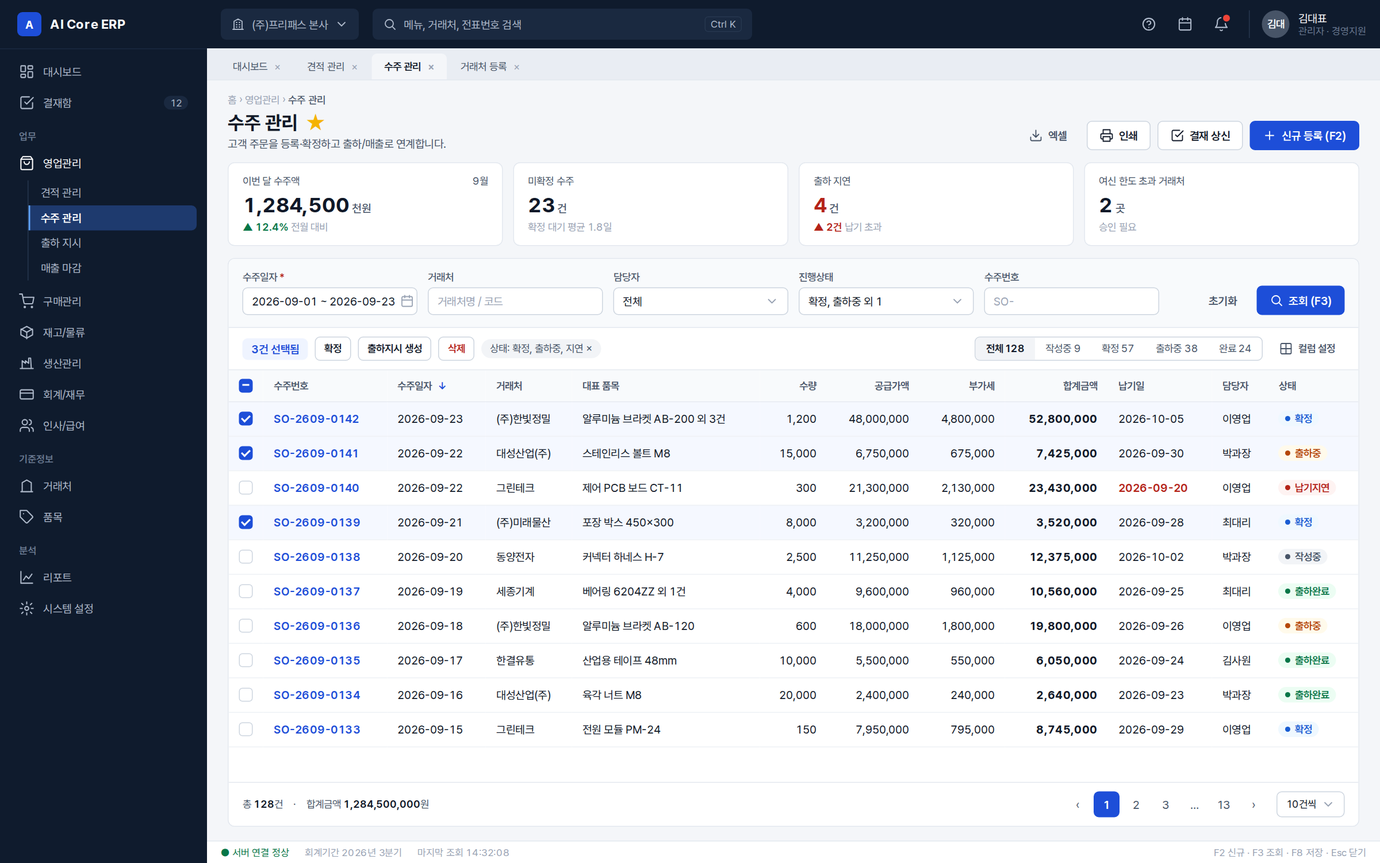
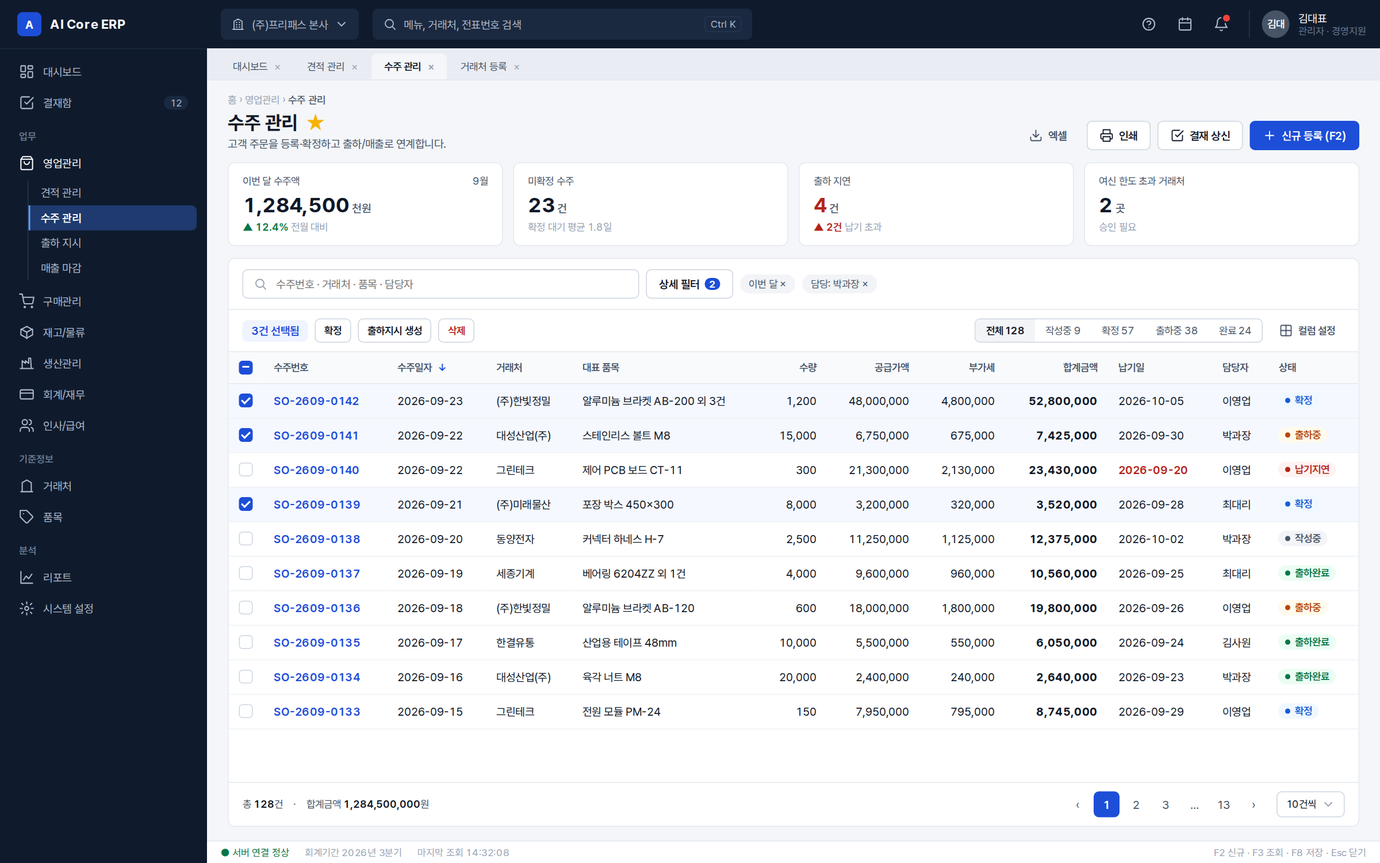
[Claude] ERP 표준 — 조회 규칙 미니멀화: 검색창 + 상세 필터, 드롭다운 최소화
대표 2026-09-23 「검색창이랑 상세 필터를 최대한 쓰려고 하잖아. 드랍다운은
계약·정산·실적 같은 데서만 … 더 미니멀하고 심플하게」

- erp.css/retro.css: erp-searchbar · erp-search · erp-filter-more(details) ·
  erp-filter-panel · erp-facet(-opt, 건수 칩) · erp-dd(분류 드롭다운)
- README §5-1 조회 규칙, §1 ⑥ 갱신
- main.html · platform 목록 시안: 라벨 드롭다운 바 → 검색창 + 상세 필터,
  컬럼 설정 · 장식 칩 제거, 이미지 재생성

Claude-Session: https://claude.ai/code/session_01VHqvSXhUy82o1cFFrYMP3F

diff --git a/design/erp-standard/platform/inventory.html b/design/erp-standard/platform/inventory.html
@@ -71,19 +71,10 @@
       <div class="erp-kpi"><div class="erp-kpi-label">출고불가 · 시트 불일치 <span>확인 필요</span></div><div class="erp-kpi-value erp-kpi-value--alert">43<small>대</small></div><div class="erp-kpi-delta"><span class="erp-down">시트 불일치 6대</span></div></div>
     </section>
     <section class="erp-card erp-card--fill">
-      <form class="erp-filter" data-region="filter" role="search">
-        <label class="erp-field"><span class="erp-label">제조사 / 모델</span><span class="erp-input">기아, 현대 외 2<svg viewBox="0 0 24 24"><path d="m6 9 6 6 6-6"/></svg></span></label>
-        <label class="erp-field"><span class="erp-label">상품구분</span><span class="erp-input">전체<svg viewBox="0 0 24 24"><path d="m6 9 6 6 6-6"/></svg></span></label>
-        <label class="erp-field"><span class="erp-label">계약기간 기준</span><span class="erp-input">36개월<svg viewBox="0 0 24 24"><path d="m6 9 6 6 6-6"/></svg></span></label>
-        <label class="erp-field"><span class="erp-label">월 대여료</span><span class="erp-input">150만원 이하<svg viewBox="0 0 24 24"><path d="m6 9 6 6 6-6"/></svg></span></label>
-        <label class="erp-field"><span class="erp-label">차량번호 / 차명</span><input class="erp-input" placeholder="차량번호, 차명, 옵션"></label>
-        <div class="erp-filter-actions"><button class="erp-btn erp-btn--ghost" type="button">초기화</button><button class="erp-btn erp-btn--primary" type="submit"><svg viewBox="0 0 24 24"><circle cx="11" cy="11" r="7"/><path d="m21 21-4.3-4.3"/></svg>조회 (F3)</button></div>
-      </form>
+      <form class="erp-searchbar" data-region="filter" role="search"><label class="erp-search"><svg viewBox="0 0 24 24"><circle cx="11" cy="11" r="7"/><path d="m21 21-4.3-4.3"/></svg><input name="q" placeholder="차량번호 · 차명 · 옵션 · 공급사"></label><details class="erp-filter-more"><summary class="erp-btn">상세 필터 <b>2</b></summary><div class="erp-filter-panel"><div class="erp-facet"><p class="erp-facet-title">출고상태</p><div class="erp-facet-opts"><a class="erp-facet-opt" href="#">즉시출고 <small>86</small></a><a class="erp-facet-opt" href="#">출고가능 <small>142</small></a><a class="erp-facet-opt" href="#">출고협의 <small>41</small></a></div></div><div class="erp-facet"><p class="erp-facet-title">상품구분</p><div class="erp-facet-opts"><a class="erp-facet-opt" href="#">장기렌트 <small>214</small></a><a class="erp-facet-opt" href="#">구독 <small>98</small></a></div></div><div class="erp-facet"><p class="erp-facet-title">제조사</p><div class="erp-facet-opts"><a class="erp-facet-opt" href="#">기아 <small>131</small></a><a class="erp-facet-opt" href="#">현대 <small>122</small></a><a class="erp-facet-opt" href="#">제네시스 <small>34</small></a></div></div><div class="erp-facet"><p class="erp-facet-title">월 대여료 (36개월)</p><div class="erp-facet-opts"><a class="erp-facet-opt" href="#">50만원 이하 <small>61</small></a><a class="erp-facet-opt" href="#">100만원 이하 <small>187</small></a><a class="erp-facet-opt" href="#" aria-pressed="true">150만원 이하 <small>288</small></a></div></div><div class="erp-facet"><p class="erp-facet-title">우대조건</p><div class="erp-facet-opts"><a class="erp-facet-opt" href="#" aria-pressed="true">무보증 <small>176</small></a><a class="erp-facet-opt" href="#">만21세 <small>92</small></a><a class="erp-facet-opt" href="#">보증금 분납 <small>48</small></a></div></div><div class="erp-filter-panel-foot"><a class="erp-btn erp-btn--ghost" href="#">초기화</a><button class="erp-btn erp-btn--primary" type="submit">적용</button></div></div></details><span class="erp-chip">150만원 이하 ×</span><span class="erp-chip">무보증 ×</span></form>
       <div class="erp-toolbar" data-region="grid-toolbar">
-        <span class="erp-chip">우대조건: 무보증 ×</span><span class="erp-chip">공급사: 전체</span>
         <span class="erp-toolbar-spacer"></span>
         <div class="erp-seg" role="group" aria-label="출고상태"><button type="button" aria-pressed="true">전체 312</button><button type="button" aria-pressed="false">즉시출고 86</button><button type="button" aria-pressed="false">출고가능 142</button><button type="button" aria-pressed="false">출고협의 41</button><button type="button" aria-pressed="false">출고불가 43</button></div>
-        <button class="erp-btn erp-btn--sm erp-btn--ghost" type="button"><svg viewBox="0 0 24 24"><rect x="3" y="3" width="18" height="18" rx="2"/><path d="M12 3v18M3 12h18"/></svg>컬럼 설정</button>
       </div>
       <div class="erp-grid-scroll" data-region="grid">
         <table class="erp-grid">

diff --git a/design/erp-standard/platform/retro/inventory.html b/design/erp-standard/platform/retro/inventory.html
@@ -75,19 +75,10 @@
       <div class="erp-kpi"><div class="erp-kpi-label">출고불가 · 시트 불일치 <span>확인 필요</span></div><div class="erp-kpi-value erp-kpi-value--alert">43<small>대</small></div><div class="erp-kpi-delta"><span class="erp-down">시트 불일치 6대</span></div></div>
     </section>
     <section class="erp-card erp-card--fill">
-      <form class="erp-filter" data-region="filter" role="search">
-        <label class="erp-field"><span class="erp-label">제조사 / 모델</span><span class="erp-input">기아, 현대 외 2<svg viewBox="0 0 24 24"><path d="m6 9 6 6 6-6"/></svg></span></label>
-        <label class="erp-field"><span class="erp-label">상품구분</span><span class="erp-input">전체<svg viewBox="0 0 24 24"><path d="m6 9 6 6 6-6"/></svg></span></label>
-        <label class="erp-field"><span class="erp-label">계약기간 기준</span><span class="erp-input">36개월<svg viewBox="0 0 24 24"><path d="m6 9 6 6 6-6"/></svg></span></label>
-        <label class="erp-field"><span class="erp-label">월 대여료</span><span class="erp-input">150만원 이하<svg viewBox="0 0 24 24"><path d="m6 9 6 6 6-6"/></svg></span></label>
-        <label class="erp-field"><span class="erp-label">차량번호 / 차명</span><input class="erp-input" placeholder="차량번호, 차명, 옵션"></label>
-        <div class="erp-filter-actions"><button class="erp-btn erp-btn--ghost" type="button">초기화</button><button class="erp-btn erp-btn--primary" type="submit"><svg viewBox="0 0 24 24"><circle cx="11" cy="11" r="7"/><path d="m21 21-4.3-4.3"/></svg>조회 (F3)</button></div>
-      </form>
+      <form class="erp-searchbar" data-region="filter" role="search"><label class="erp-search"><svg viewBox="0 0 24 24"><circle cx="11" cy="11" r="7"/><path d="m21 21-4.3-4.3"/></svg><input name="q" placeholder="차량번호 · 차명 · 옵션 · 공급사"></label><details class="erp-filter-more"><summary class="erp-btn">상세 필터 <b>2</b></summary><div class="erp-filter-panel"><div class="erp-facet"><p class="erp-facet-title">출고상태</p><div class="erp-facet-opts"><a class="erp-facet-opt" href="#">즉시출고 <small>86</small></a><a class="erp-facet-opt" href="#">출고가능 <small>142</small></a><a class="erp-facet-opt" href="#">출고협의 <small>41</small></a></div></div><div class="erp-facet"><p class="erp-facet-title">상품구분</p><div class="erp-facet-opts"><a class="erp-facet-opt" href="#">장기렌트 <small>214</small></a><a class="erp-facet-opt" href="#">구독 <small>98</small></a></div></div><div class="erp-facet"><p class="erp-facet-title">제조사</p><div class="erp-facet-opts"><a class="erp-facet-opt" href="#">기아 <small>131</small></a><a class="erp-facet-opt" href="#">현대 <small>122</small></a><a class="erp-facet-opt" href="#">제네시스 <small>34</small></a></div></div><div class="erp-facet"><p class="erp-facet-title">월 대여료 (36개월)</p><div class="erp-facet-opts"><a class="erp-facet-opt" href="#">50만원 이하 <small>61</small></a><a class="erp-facet-opt" href="#">100만원 이하 <small>187</small></a><a class="erp-facet-opt" href="#" aria-pressed="true">150만원 이하 <small>288</small></a></div></div><div class="erp-facet"><p class="erp-facet-title">우대조건</p><div class="erp-facet-opts"><a class="erp-facet-opt" href="#" aria-pressed="true">무보증 <small>176</small></a><a class="erp-facet-opt" href="#">만21세 <small>92</small></a><a class="erp-facet-opt" href="#">보증금 분납 <small>48</small></a></div></div><div class="erp-filter-panel-foot"><a class="erp-btn erp-btn--ghost" href="#">초기화</a><button class="erp-btn erp-btn--primary" type="submit">적용</button></div></div></details><span class="erp-chip">150만원 이하 ×</span><span class="erp-chip">무보증 ×</span></form>
       <div class="erp-toolbar" data-region="grid-toolbar">
-        <span class="erp-chip">우대조건: 무보증 ×</span><span class="erp-chip">공급사: 전체</span>
         <span class="erp-toolbar-spacer"></span>
         <div class="erp-seg" role="group" aria-label="출고상태"><button type="button" aria-pressed="true">전체 312</button><button type="button" aria-pressed="false">즉시출고 86</button><button type="button" aria-pressed="false">출고가능 142</button><button type="button" aria-pressed="false">출고협의 41</button><button type="button" aria-pressed="false">출고불가 43</button></div>
-        <button class="erp-btn erp-btn--sm erp-btn--ghost" type="button"><svg viewBox="0 0 24 24"><rect x="3" y="3" width="18" height="18" rx="2"/><path d="M12 3v18M3 12h18"/></svg>컬럼 설정</button>
       </div>
       <div class="erp-grid-scroll" data-region="grid">
         <table class="erp-grid">

diff --git a/design/erp-standard/platform/contracts.html b/design/erp-standard/platform/contracts.html
@@ -65,20 +65,12 @@
       </div>
     </section>
     <section class="erp-card erp-card--fill">
-      <form class="erp-filter" data-region="filter" role="search">
-        <label class="erp-field"><span class="erp-label">계약일 <em class="erp-req">*</em></span><span class="erp-input">2026-09-01 ~ 2026-09-23<svg viewBox="0 0 24 24"><rect x="3" y="4" width="18" height="17" rx="2"/><path d="M16 2v4M8 2v4M3 10h18"/></svg></span></label>
-        <label class="erp-field"><span class="erp-label">고객 / 차량번호</span><input class="erp-input" placeholder="고객명, 차량번호"></label>
-        <label class="erp-field"><span class="erp-label">공급사</span><span class="erp-input">전체<svg viewBox="0 0 24 24"><path d="m6 9 6 6 6-6"/></svg></span></label>
-        <label class="erp-field"><span class="erp-label">영업자</span><span class="erp-input">전체<svg viewBox="0 0 24 24"><path d="m6 9 6 6 6-6"/></svg></span></label>
-        <label class="erp-field"><span class="erp-label">상품구분</span><span class="erp-input">장기렌트, 구독<svg viewBox="0 0 24 24"><path d="m6 9 6 6 6-6"/></svg></span></label>
-        <div class="erp-filter-actions"><button class="erp-btn erp-btn--ghost" type="button">초기화</button><button class="erp-btn erp-btn--primary" type="submit"><svg viewBox="0 0 24 24"><circle cx="11" cy="11" r="7"/><path d="m21 21-4.3-4.3"/></svg>조회 (F3)</button></div>
-      </form>
+      <form class="erp-searchbar" data-region="filter" role="search"><label class="erp-search"><svg viewBox="0 0 24 24"><circle cx="11" cy="11" r="7"/><path d="m21 21-4.3-4.3"/></svg><input name="q" placeholder="계약번호 · 고객 · 차량번호 · 영업자"></label><details class="erp-filter-more"><summary class="erp-btn">상세 필터 <b>1</b></summary><div class="erp-filter-panel"><div class="erp-facet"><p class="erp-facet-title">계약일</p><div class="erp-facet-opts"><a class="erp-facet-opt" href="#" aria-pressed="true">이번 달 <small>142</small></a><a class="erp-facet-opt" href="#">지난 달 <small>131</small></a><a class="erp-facet-opt" href="#">최근 3개월 <small>402</small></a></div></div><div class="erp-facet"><p class="erp-facet-title">상품구분</p><div class="erp-facet-opts"><a class="erp-facet-opt" href="#">장기렌트 <small>98</small></a><a class="erp-facet-opt" href="#">구독 <small>44</small></a></div></div><div class="erp-facet"><p class="erp-facet-title">공급사</p><div class="erp-facet-opts"><a class="erp-facet-opt" href="#">한빛렌터카 <small>51</small></a><a class="erp-facet-opt" href="#">대성모빌리티 <small>38</small></a><a class="erp-facet-opt" href="#">그린카렌탈 <small>30</small></a><a class="erp-facet-opt" href="#">동해오토리스 <small>23</small></a></div></div><div class="erp-facet"><p class="erp-facet-title">영업자</p><div class="erp-facet-opts"><a class="erp-facet-opt" href="#">이영업 <small>44</small></a><a class="erp-facet-opt" href="#">박과장 <small>39</small></a><a class="erp-facet-opt" href="#">최대리 <small>33</small></a><a class="erp-facet-opt" href="#">김팀장 <small>26</small></a></div></div><div class="erp-filter-panel-foot"><a class="erp-btn erp-btn--ghost" href="#">초기화</a><button class="erp-btn erp-btn--primary" type="submit">적용</button></div></div></details><span class="erp-chip">이번 달 ×</span></form>
       <div class="erp-toolbar" data-region="grid-toolbar">
         <span class="erp-selection">2건 선택됨</span>
         <button class="erp-btn erp-btn--sm" type="button">계약서 발송</button><button class="erp-btn erp-btn--sm" type="button">담당 영업자 변경</button><button class="erp-btn erp-btn--sm erp-btn--danger-text" type="button">계약취소</button>
         <span class="erp-toolbar-spacer"></span>
         <div class="erp-seg" role="group" aria-label="계약 상태"><button type="button" aria-pressed="true">전체 142</button><button type="button" aria-pressed="false">계약요청 12</button><button type="button" aria-pressed="false">계약대기 9</button><button type="button" aria-pressed="false">계약발송 14</button><button type="button" aria-pressed="false">계약완료 98</button><button type="button" aria-pressed="false">계약취소 9</button></div>
-        <button class="erp-btn erp-btn--sm erp-btn--ghost" type="button"><svg viewBox="0 0 24 24"><rect x="3" y="3" width="18" height="18" rx="2"/><path d="M12 3v18M3 12h18"/></svg>컬럼 설정</button>
       </div>
       <div class="erp-grid-scroll" data-region="grid">
         <table class="erp-grid">

diff --git a/design/erp-standard/platform/retro/contracts.html b/design/erp-standard/platform/retro/contracts.html
@@ -69,20 +69,12 @@
       </div>
     </section>
     <section class="erp-card erp-card--fill">
-      <form class="erp-filter" data-region="filter" role="search">
-        <label class="erp-field"><span class="erp-label">계약일 <em class="erp-req">*</em></span><span class="erp-input">2026-09-01 ~ 2026-09-23<svg viewBox="0 0 24 24"><rect x="3" y="4" width="18" height="17" rx="2"/><path d="M16 2v4M8 2v4M3 10h18"/></svg></span></label>
-        <label class="erp-field"><span class="erp-label">고객 / 차량번호</span><input class="erp-input" placeholder="고객명, 차량번호"></label>
-        <label class="erp-field"><span class="erp-label">공급사</span><span class="erp-input">전체<svg viewBox="0 0 24 24"><path d="m6 9 6 6 6-6"/></svg></span></label>
-        <label class="erp-field"><span class="erp-label">영업자</span><span class="erp-input">전체<svg viewBox="0 0 24 24"><path d="m6 9 6 6 6-6"/></svg></span></label>
-        <label class="erp-field"><span class="erp-label">상품구분</span><span class="erp-input">장기렌트, 구독<svg viewBox="0 0 24 24"><path d="m6 9 6 6 6-6"/></svg></span></label>
-        <div class="erp-filter-actions"><button class="erp-btn erp-btn--ghost" type="button">초기화</button><button class="erp-btn erp-btn--primary" type="submit"><svg viewBox="0 0 24 24"><circle cx="11" cy="11" r="7"/><path d="m21 21-4.3-4.3"/></svg>조회 (F3)</button></div>
-      </form>
+      <form class="erp-searchbar" data-region="filter" role="search"><label class="erp-search"><svg viewBox="0 0 24 24"><circle cx="11" cy="11" r="7"/><path d="m21 21-4.3-4.3"/></svg><input name="q" placeholder="계약번호 · 고객 · 차량번호 · 영업자"></label><details class="erp-filter-more"><summary class="erp-btn">상세 필터 <b>1</b></summary><div class="erp-filter-panel"><div class="erp-facet"><p class="erp-facet-title">계약일</p><div class="erp-facet-opts"><a class="erp-facet-opt" href="#" aria-pressed="true">이번 달 <small>142</small></a><a class="erp-facet-opt" href="#">지난 달 <small>131</small></a><a class="erp-facet-opt" href="#">최근 3개월 <small>402</small></a></div></div><div class="erp-facet"><p class="erp-facet-title">상품구분</p><div class="erp-facet-opts"><a class="erp-facet-opt" href="#">장기렌트 <small>98</small></a><a class="erp-facet-opt" href="#">구독 <small>44</small></a></div></div><div class="erp-facet"><p class="erp-facet-title">공급사</p><div class="erp-facet-opts"><a class="erp-facet-opt" href="#">한빛렌터카 <small>51</small></a><a class="erp-facet-opt" href="#">대성모빌리티 <small>38</small></a><a class="erp-facet-opt" href="#">그린카렌탈 <small>30</small></a><a class="erp-facet-opt" href="#">동해오토리스 <small>23</small></a></div></div><div class="erp-facet"><p class="erp-facet-title">영업자</p><div class="erp-facet-opts"><a class="erp-facet-opt" href="#">이영업 <small>44</small></a><a class="erp-facet-opt" href="#">박과장 <small>39</small></a><a class="erp-facet-opt" href="#">최대리 <small>33</small></a><a class="erp-facet-opt" href="#">김팀장 <small>26</small></a></div></div><div class="erp-filter-panel-foot"><a class="erp-btn erp-btn--ghost" href="#">초기화</a><button class="erp-btn erp-btn--primary" type="submit">적용</button></div></div></details><span class="erp-chip">이번 달 ×</span></form>
       <div class="erp-toolbar" data-region="grid-toolbar">
         <span class="erp-selection">2건 선택됨</span>
         <button class="erp-btn erp-btn--sm" type="button">계약서 발송</button><button class="erp-btn erp-btn--sm" type="button">담당 영업자 변경</button><button class="erp-btn erp-btn--sm erp-btn--danger-text" type="button">계약취소</button>
         <span class="erp-toolbar-spacer"></span>
         <div class="erp-seg" role="group" aria-label="계약 상태"><button type="button" aria-pressed="true">전체 142</button><button type="button" aria-pressed="false">계약요청 12</button><button type="button" aria-pressed="false">계약대기 9</button><button type="button" aria-pressed="false">계약발송 14</button><button type="button" aria-pressed="false">계약완료 98</button><button type="button" aria-pressed="false">계약취소 9</button></div>
-        <button class="erp-btn erp-btn--sm erp-btn--ghost" type="button"><svg viewBox="0 0 24 24"><rect x="3" y="3" width="18" height="18" rx="2"/><path d="M12 3v18M3 12h18"/></svg>컬럼 설정</button>
       </div>
       <div class="erp-grid-scroll" data-region="grid">
         <table class="erp-grid">

diff --git a/design/erp-standard/platform/retro/settlements.html b/design/erp-standard/platform/retro/settlements.html
@@ -79,19 +79,11 @@
       <section class="erp-card"><div class="erp-card-head"><h2 class="erp-card-title">지급 흐름 <small>프리패스 → 영업자</small></h2></div><div class="erp-card-body"><ol class="erp-steps"><li><span class="erp-step-dot">1</span>접수<span class="erp-step-count">8</span></li><li><span class="erp-step-dot">2</span>통보<span class="erp-step-count">13</span></li><li><span class="erp-step-dot">3</span>정정<span class="erp-step-count">1</span></li><li><span class="erp-step-dot">4</span>확인<span class="erp-step-count">14</span></li><li><span class="erp-step-dot">5</span>지급<span class="erp-step-count">19</span></li></ol></div></section>
     </div>
     <section class="erp-card erp-card--fill">
-      <form class="erp-filter" data-region="filter" role="search">
-        <label class="erp-field"><span class="erp-label">정산월 <em class="erp-req">*</em></span><span class="erp-input">2026-09<svg viewBox="0 0 24 24"><rect x="3" y="4" width="18" height="17" rx="2"/><path d="M16 2v4M8 2v4M3 10h18"/></svg></span></label>
-        <label class="erp-field"><span class="erp-label">공급사</span><span class="erp-input">전체<svg viewBox="0 0 24 24"><path d="m6 9 6 6 6-6"/></svg></span></label>
-        <label class="erp-field"><span class="erp-label">영업자 / 에이전시</span><span class="erp-input">전체<svg viewBox="0 0 24 24"><path d="m6 9 6 6 6-6"/></svg></span></label>
-        <label class="erp-field"><span class="erp-label">단계</span><span class="erp-input">전체<svg viewBox="0 0 24 24"><path d="m6 9 6 6 6-6"/></svg></span></label>
-        <label class="erp-field"><span class="erp-label">계약번호 / 고객</span><input class="erp-input" placeholder="FP-"></label>
-        <div class="erp-filter-actions"><button class="erp-btn erp-btn--ghost" type="button">초기화</button><button class="erp-btn erp-btn--primary" type="submit"><svg viewBox="0 0 24 24"><circle cx="11" cy="11" r="7"/><path d="m21 21-4.3-4.3"/></svg>조회 (F3)</button></div>
-      </form>
+      <form class="erp-searchbar" data-region="filter" role="search"><select class="erp-input erp-dd" aria-label="정산월"><option>2026-09</option><option>2026-08</option><option>2026-07</option></select><label class="erp-search"><svg viewBox="0 0 24 24"><circle cx="11" cy="11" r="7"/><path d="m21 21-4.3-4.3"/></svg><input name="q" placeholder="계약번호 · 공급사 · 영업자 · 고객"></label><details class="erp-filter-more"><summary class="erp-btn">상세 필터</summary><div class="erp-filter-panel"><div class="erp-facet"><p class="erp-facet-title">단계</p><div class="erp-facet-opts"><a class="erp-facet-opt" href="#">접수 <small>8</small></a><a class="erp-facet-opt" href="#">청구 <small>15</small></a><a class="erp-facet-opt" href="#">정정 <small>2</small></a><a class="erp-facet-opt" href="#">확인 <small>11</small></a><a class="erp-facet-opt" href="#">수금 <small>24</small></a></div></div><div class="erp-facet"><p class="erp-facet-title">공급사</p><div class="erp-facet-opts"><a class="erp-facet-opt" href="#">한빛렌터카 <small>14</small></a><a class="erp-facet-opt" href="#">대성모빌리티 <small>11</small></a><a class="erp-facet-opt" href="#">그린카렌탈 <small>9</small></a><a class="erp-facet-opt" href="#">동해오토리스 <small>8</small></a></div></div><div class="erp-filter-panel-foot"><a class="erp-btn erp-btn--ghost" href="#">초기화</a><button class="erp-btn erp-btn--primary" type="submit">적용</button></div></div></details></form>
       <div class="erp-toolbar" data-region="grid-toolbar">
         <div class="erp-seg" role="group" aria-label="정산 구분"><button type="button" aria-pressed="true">건별 정산 42</button><button type="button" aria-pressed="false">정정 필요 3</button><button type="button" aria-pressed="false">환수 3</button><button type="button" aria-pressed="false">보류 · 취소 2</button></div>
         <span class="erp-toolbar-spacer"></span>
         <button class="erp-btn erp-btn--sm" type="button">청구서 생성</button><button class="erp-btn erp-btn--sm" type="button">지급 통보</button>
-        <button class="erp-btn erp-btn--sm erp-btn--ghost" type="button"><svg viewBox="0 0 24 24"><rect x="3" y="3" width="18" height="18" rx="2"/><path d="M12 3v18M3 12h18"/></svg>컬럼 설정</button>
       </div>
       <div class="erp-grid-scroll" data-region="grid">
         <table class="erp-grid">

diff --git a/design/erp-standard/platform/settlements.html b/design/erp-standard/platform/settlements.html
@@ -75,19 +75,11 @@
       <section class="erp-card"><div class="erp-card-head"><h2 class="erp-card-title">지급 흐름 <small>프리패스 → 영업자</small></h2></div><div class="erp-card-body"><ol class="erp-steps"><li><span class="erp-step-dot">1</span>접수<span class="erp-step-count">8</span></li><li><span class="erp-step-dot">2</span>통보<span class="erp-step-count">13</span></li><li><span class="erp-step-dot">3</span>정정<span class="erp-step-count">1</span></li><li><span class="erp-step-dot">4</span>확인<span class="erp-step-count">14</span></li><li><span class="erp-step-dot">5</span>지급<span class="erp-step-count">19</span></li></ol></div></section>
     </div>
     <section class="erp-card erp-card--fill">
-      <form class="erp-filter" data-region="filter" role="search">
-        <label class="erp-field"><span class="erp-label">정산월 <em class="erp-req">*</em></span><span class="erp-input">2026-09<svg viewBox="0 0 24 24"><rect x="3" y="4" width="18" height="17" rx="2"/><path d="M16 2v4M8 2v4M3 10h18"/></svg></span></label>
-        <label class="erp-field"><span class="erp-label">공급사</span><span class="erp-input">전체<svg viewBox="0 0 24 24"><path d="m6 9 6 6 6-6"/></svg></span></label>
-        <label class="erp-field"><span class="erp-label">영업자 / 에이전시</span><span class="erp-input">전체<svg viewBox="0 0 24 24"><path d="m6 9 6 6 6-6"/></svg></span></label>
-        <label class="erp-field"><span class="erp-label">단계</span><span class="erp-input">전체<svg viewBox="0 0 24 24"><path d="m6 9 6 6 6-6"/></svg></span></label>
-        <label class="erp-field"><span class="erp-label">계약번호 / 고객</span><input class="erp-input" placeholder="FP-"></label>
-        <div class="erp-filter-actions"><button class="erp-btn erp-btn--ghost" type="button">초기화</button><button class="erp-btn erp-btn--primary" type="submit"><svg viewBox="0 0 24 24"><circle cx="11" cy="11" r="7"/><path d="m21 21-4.3-4.3"/></svg>조회 (F3)</button></div>
-      </form>
+      <form class="erp-searchbar" data-region="filter" role="search"><select class="erp-input erp-dd" aria-label="정산월"><option>2026-09</option><option>2026-08</option><option>2026-07</option></select><label class="erp-search"><svg viewBox="0 0 24 24"><circle cx="11" cy="11" r="7"/><path d="m21 21-4.3-4.3"/></svg><input name="q" placeholder="계약번호 · 공급사 · 영업자 · 고객"></label><details class="erp-filter-more"><summary class="erp-btn">상세 필터</summary><div class="erp-filter-panel"><div class="erp-facet"><p class="erp-facet-title">단계</p><div class="erp-facet-opts"><a class="erp-facet-opt" href="#">접수 <small>8</small></a><a class="erp-facet-opt" href="#">청구 <small>15</small></a><a class="erp-facet-opt" href="#">정정 <small>2</small></a><a class="erp-facet-opt" href="#">확인 <small>11</small></a><a class="erp-facet-opt" href="#">수금 <small>24</small></a></div></div><div class="erp-facet"><p class="erp-facet-title">공급사</p><div class="erp-facet-opts"><a class="erp-facet-opt" href="#">한빛렌터카 <small>14</small></a><a class="erp-facet-opt" href="#">대성모빌리티 <small>11</small></a><a class="erp-facet-opt" href="#">그린카렌탈 <small>9</small></a><a class="erp-facet-opt" href="#">동해오토리스 <small>8</small></a></div></div><div class="erp-filter-panel-foot"><a class="erp-btn erp-btn--ghost" href="#">초기화</a><button class="erp-btn erp-btn--primary" type="submit">적용</button></div></div></details></form>
       <div class="erp-toolbar" data-region="grid-toolbar">
         <div class="erp-seg" role="group" aria-label="정산 구분"><button type="button" aria-pressed="true">건별 정산 42</button><button type="button" aria-pressed="false">정정 필요 3</button><button type="button" aria-pressed="false">환수 3</button><button type="button" aria-pressed="false">보류 · 취소 2</button></div>
         <span class="erp-toolbar-spacer"></span>
         <button class="erp-btn erp-btn--sm" type="button">청구서 생성</button><button class="erp-btn erp-btn--sm" type="button">지급 통보</button>
-        <button class="erp-btn erp-btn--sm erp-btn--ghost" type="button"><svg viewBox="0 0 24 24"><rect x="3" y="3" width="18" height="18" rx="2"/><path d="M12 3v18M3 12h18"/></svg>컬럼 설정</button>
       </div>
       <div class="erp-grid-scroll" data-region="grid">
         <table class="erp-grid">

diff --git a/design/erp-standard/main.html b/design/erp-standard/main.html
@@ -89,17 +89,19 @@
     </section>
 
     <section class="erp-card erp-card--fill">
-      <!-- ⑥ 조회조건 바 -->
-      <form class="erp-filter" data-region="filter" role="search">
-        <label class="erp-field"><span class="erp-label">수주일자 <em class="erp-req">*</em></span><span class="erp-input">2026-09-01 ~ 2026-09-23<svg viewBox="0 0 24 24"><rect x="3" y="4" width="18" height="17" rx="2"/><path d="M16 2v4M8 2v4M3 10h18"/></svg></span></label>
-        <label class="erp-field"><span class="erp-label">거래처</span><input class="erp-input" placeholder="거래처명 / 코드"></label>
-        <label class="erp-field"><span class="erp-label">담당자</span><span class="erp-input">전체<svg viewBox="0 0 24 24"><path d="m6 9 6 6 6-6"/></svg></span></label>
-        <label class="erp-field"><span class="erp-label">진행상태</span><span class="erp-input">확정, 출하중 외 1<svg viewBox="0 0 24 24"><path d="m6 9 6 6 6-6"/></svg></span></label>
-        <label class="erp-field"><span class="erp-label">수주번호</span><input class="erp-input" placeholder="SO-"></label>
-        <div class="erp-filter-actions">
-          <button class="erp-btn erp-btn--ghost" type="reset">초기화</button>
-          <button class="erp-btn erp-btn--primary" type="submit"><svg viewBox="0 0 24 24"><circle cx="11" cy="11" r="7"/><path d="m21 21-4.3-4.3"/></svg>조회 (F3)</button>
-        </div>
+      <!-- ⑥ 조회 — 검색창 + 상세 필터 (드롭다운을 늘어놓지 않는다) -->
+      <form class="erp-searchbar" data-region="filter" role="search">
+        <label class="erp-search"><svg viewBox="0 0 24 24"><circle cx="11" cy="11" r="7"/><path d="m21 21-4.3-4.3"/></svg><input name="q" placeholder="수주번호 · 거래처 · 품목 · 담당자"></label>
+        <details class="erp-filter-more">
+          <summary class="erp-btn">상세 필터 <b>2</b></summary>
+          <div class="erp-filter-panel">
+            <div class="erp-facet"><p class="erp-facet-title">수주일자</p><div class="erp-facet-opts"><a class="erp-facet-opt" href="#">오늘</a><a class="erp-facet-opt" href="#">이번 주</a><a class="erp-facet-opt" href="#" aria-pressed="true">이번 달 <small>128</small></a><a class="erp-facet-opt" href="#">지난 달</a></div></div>
+            <div class="erp-facet"><p class="erp-facet-title">담당자</p><div class="erp-facet-opts"><a class="erp-facet-opt" href="#">이영업 <small>41</small></a><a class="erp-facet-opt" href="#" aria-pressed="true">박과장 <small>37</small></a><a class="erp-facet-opt" href="#">최대리 <small>29</small></a><a class="erp-facet-opt" href="#">김사원 <small>21</small></a></div></div>
+            <div class="erp-facet"><p class="erp-facet-title">거래처</p><div class="erp-facet-opts"><a class="erp-facet-opt" href="#">(주)한빛정밀 <small>18</small></a><a class="erp-facet-opt" href="#">대성산업(주) <small>15</small></a><a class="erp-facet-opt" href="#">그린테크 <small>12</small></a></div></div>
+            <div class="erp-filter-panel-foot"><a class="erp-btn erp-btn--ghost" href="#">초기화</a><button class="erp-btn erp-btn--primary" type="submit">적용</button></div>
+          </div>
+        </details>
+        <span class="erp-chip">이번 달 ×</span><span class="erp-chip">담당: 박과장 ×</span>
       </form>
 
       <!-- ⑦ 데이터 그리드 -->
@@ -108,8 +110,7 @@
         <button class="erp-btn erp-btn--sm" type="button">확정</button>
         <button class="erp-btn erp-btn--sm" type="button">출하지시 생성</button>
         <button class="erp-btn erp-btn--sm erp-btn--danger-text" type="button">삭제</button>
-        <span class="erp-chip">상태: 확정, 출하중, 지연 ×</span>
-        <span class="erp-toolbar-spacer"></span>
+                <span class="erp-toolbar-spacer"></span>
         <div class="erp-seg" role="group" aria-label="상태 탭">
           <button type="button" aria-pressed="true">전체 128</button><button type="button" aria-pressed="false">작성중 9</button><button type="button" aria-pressed="false">확정 57</button><button type="button" aria-pressed="false">출하중 38</button><button type="button" aria-pressed="false">완료 24</button>
         </div>

diff --git a/design/erp-standard/erp.css b/design/erp-standard/erp.css
@@ -309,3 +309,27 @@
 .erp-tags { display: inline-flex; gap: var(--erp-sp-1); }
 .erp-tag { padding: 1px 6px; border-radius: var(--erp-r-sm); background: var(--erp-color-neutral-bg); color: var(--erp-color-text-2); font-size: var(--erp-fs-caption); }
 .erp-tag--primary { background: var(--erp-color-primary-weak); color: var(--erp-color-primary); }
+
+/* ── 조회 — 검색창 + 상세 필터 (대표 2026-09-23 「검색창이랑 상세 필터를 최대한 쓴다 · 드롭다운은 최소화」) ──
+ *   목록 조회의 기본은 «검색창 하나 + 상세 필터 하나». 조건은 드롭다운을 늘어놓지 않고 상세 필터 안의
+ *   선택지(건수 붙은 칩)로 고른다. 상태 분류는 세그먼트 탭. 드롭다운은 분류가 꼭 필요한 화면(계약 · 정산 · 실적)에서만 1~2개.
+ *   상세 필터는 <details> 로 연다 — 스크립트 없이도 열리고 닫힌다. */
+.erp-searchbar { display: flex; align-items: center; gap: var(--erp-sp-2); padding: var(--erp-sp-3) var(--erp-sp-4); border-bottom: 1px solid var(--erp-color-line); }
+.erp-search { display: flex; align-items: center; gap: var(--erp-sp-2); flex: 0 1 460px; height: var(--erp-btn-h); padding: 0 var(--erp-sp-3); border: 1px solid var(--erp-color-line-strong); border-radius: var(--erp-r-md); background: var(--erp-color-surface); color: var(--erp-color-text-3); }
+.erp-search input { flex: 1; min-width: 0; border: 0; outline: 0; background: transparent; color: var(--erp-color-text); font: inherit; font-size: var(--erp-fs-body); }
+.erp-search:focus-within { border-color: var(--erp-color-primary); box-shadow: 0 0 0 3px var(--erp-color-focus-ring); }
+.erp-filter-more { position: relative; }
+.erp-filter-more > summary { list-style: none; }
+.erp-filter-more > summary::-webkit-details-marker { display: none; }
+.erp-filter-more > summary b { min-width: 18px; padding: 0 5px; border-radius: var(--erp-r-pill); background: var(--erp-color-primary); color: var(--erp-color-on-primary); font-size: var(--erp-fs-caption); font-weight: var(--erp-fw-bold); text-align: center; }
+.erp-filter-panel { position: absolute; z-index: 20; top: calc(100% + 6px); left: 0; width: 520px; max-height: 60vh; overflow: auto; padding: var(--erp-sp-4); border: 1px solid var(--erp-color-line); border-radius: var(--erp-r-lg); background: var(--erp-color-surface); box-shadow: 0 12px 32px -12px var(--erp-color-text-3); }
+.erp-facet + .erp-facet { margin-top: 14px; }
+.erp-facet-title { margin: 0 0 var(--erp-sp-2); color: var(--erp-color-text-2); font-size: var(--erp-fs-label); font-weight: var(--erp-fw-semibold); }
+.erp-facet-opts { display: flex; flex-wrap: wrap; gap: 6px; }
+.erp-facet-opt { display: inline-flex; align-items: center; gap: var(--erp-sp-1); height: var(--erp-btn-h-sm); padding: 0 10px; border: 1px solid var(--erp-color-line-strong); border-radius: var(--erp-r-md); background: var(--erp-color-surface); color: var(--erp-color-text); font-size: var(--erp-fs-label); text-decoration: none; }
+.erp-facet-opt small { color: var(--erp-color-text-3); font-size: var(--erp-fs-caption); }
+.erp-facet-opt[aria-pressed="true"] { border-color: var(--erp-color-primary); background: var(--erp-color-primary-weak); color: var(--erp-color-primary); font-weight: var(--erp-fw-semibold); }
+.erp-filter-panel-foot { display: flex; justify-content: flex-end; gap: var(--erp-sp-2); margin-top: var(--erp-sp-4); padding-top: var(--erp-sp-3); border-top: 1px solid var(--erp-color-line); }
+.erp-searchbar .erp-chip { text-decoration: none; }
+/* 분류 드롭다운 — 계약 · 정산 · 실적 조회에서만, 검색창 앞에 1~2개 */
+.erp-dd { flex: none; width: auto; min-width: 120px; height: var(--erp-btn-h); }

diff --git a/design/erp-standard/themes/retro.css b/design/erp-standard/themes/retro.css
@@ -142,3 +142,11 @@
 [data-theme="retro"] .erp-statusbar { background: var(--erp-color-nav); color: var(--erp-color-nav-text); border-top: 0; font-family: var(--retro-font-mono); }
 [data-theme="retro"] .erp-statusbar-ok { color: var(--erp-color-nav-active); }
 [data-theme="retro"] .erp-statusbar kbd { padding: 0 5px; margin-right: 3px; border: 1px solid var(--erp-color-nav-text); border-radius: var(--erp-r-sm); background: var(--erp-color-nav-raised); color: var(--erp-color-nav-text-strong); font-family: var(--retro-font-mono); font-size: var(--erp-fs-caption); }
+
+/* 조회 — 검색창 · 상세 필터 */
+[data-theme="retro"] .erp-search { border: var(--retro-border) solid var(--erp-color-line-strong); box-shadow: inset 2px 2px 0 var(--erp-color-line); }
+[data-theme="retro"] .erp-searchbar { border-bottom: var(--retro-border) solid var(--erp-color-line-strong); }
+[data-theme="retro"] .erp-filter-panel { border: var(--retro-border) solid var(--erp-color-line-strong); box-shadow: var(--retro-shadow-lg) var(--erp-color-line-strong); }
+[data-theme="retro"] .erp-facet-opt { border: 1.5px solid var(--erp-color-line-strong); }
+[data-theme="retro"] .erp-facet-opt[aria-pressed="true"] { background: var(--erp-color-nav-active); color: var(--erp-color-text); border-color: var(--erp-color-line-strong); }
+[data-theme="retro"] .erp-facet-title { font-family: var(--retro-font-display); }

diff --git a/design/erp-standard/README.md b/design/erp-standard/README.md
@@ -27,7 +27,7 @@
 | ③ | 작업 탭 (MDI) | `tabs` | 여러 화면을 탭으로 동시에 연다 · 선택 탭 `aria-selected="true"` |
 | ④ | 페이지 헤더 | `page-header` | 경로 · 제목(22/700) · 즐겨찾기 · 설명 · 액션(우측 정렬) |
 | ⑤ | 요약 KPI | `kpi` | **선택** · 4열 카드 · 숫자 24/700 · 증감은 ▲▼ + 색 |
-| ⑥ | 조회조건 바 | `filter` | 라벨 위 입력 · 필수 `*` · 초기화 · 조회(F3) |
+| ⑥ | 조회 | `filter` | **검색창 하나 + 상세 필터 하나**(`erp-searchbar`). 조건은 상세 필터 안의 건수 붙은 선택지로 고른다. 드롭다운은 분류가 꼭 필요한 화면(계약 · 정산 · 실적)에서만 1~2개 |
 | ⑦ | 데이터 그리드 | `grid-toolbar` · `grid` | 선택 건수·일괄 액션 · 상태 탭 · 컬럼 설정 · 합계 · 페이징 |
 | ⑧ | 상태바 | `statusbar` | 높이 26 · 서버 연결 · 회계기간 · 마지막 조회 · 단축키 |
 
@@ -86,6 +86,15 @@
 | 카드 머리 · 2단 배치 | `erp-card-head` · `erp-cols` | 카드 제목 + 링크 / 본문 + 360 보조 패널 |
 | 진행 단계 | `erp-steps` | 업무 흐름. 완료 `data-state="done"`, 현재 `aria-current="step"` |
 | 처리 대기열 · 값 묶음 · 이력 | `erp-queue` · `erp-props` · `erp-timeline` | 콕핏·상세 화면 ([platform/](platform/README.md) 참고) |
+
+## 5-1. 조회 규칙 — 미니멀 (대표 2026-09-23)
+
+> 「우리가 지금 최대한 검색창이랑 상세 필터를 쓰려고 하잖아. 드랍다운 쓰는 거는 계약, 정산, 실적 이런 데서만 … 최소화할 건 최소화하고 … 더 미니멀하고 심플하게」
+
+- 목록 조회 = `erp-searchbar`: **검색창**(`erp-search`) + **상세 필터**(`<details class="erp-filter-more">` → `erp-filter-panel` 안에 `erp-facet` · `erp-facet-opt` 건수 칩) + 적용된 조건 칩(×).
+- 상태 분류는 세그먼트 탭(`erp-seg`). 드롭다운(`select.erp-input`)은 분류가 꼭 필요한 화면(계약 · 정산 · 실적)에서만, 한 화면에 1~2개.
+- 라벨 위 입력칸을 가로로 늘어놓는 `erp-filter` 바는 등록/수정 폼이나 조건이 많은 특수 조회에만 쓴다.
+- 설명 문장 · 장식용 칩 · 쓰지 않는 단추(컬럼 설정 등)를 두지 않는다. 한 화면에 Primary 는 하나.
 
 ## 6. ERP 공통 동작 규칙
 
